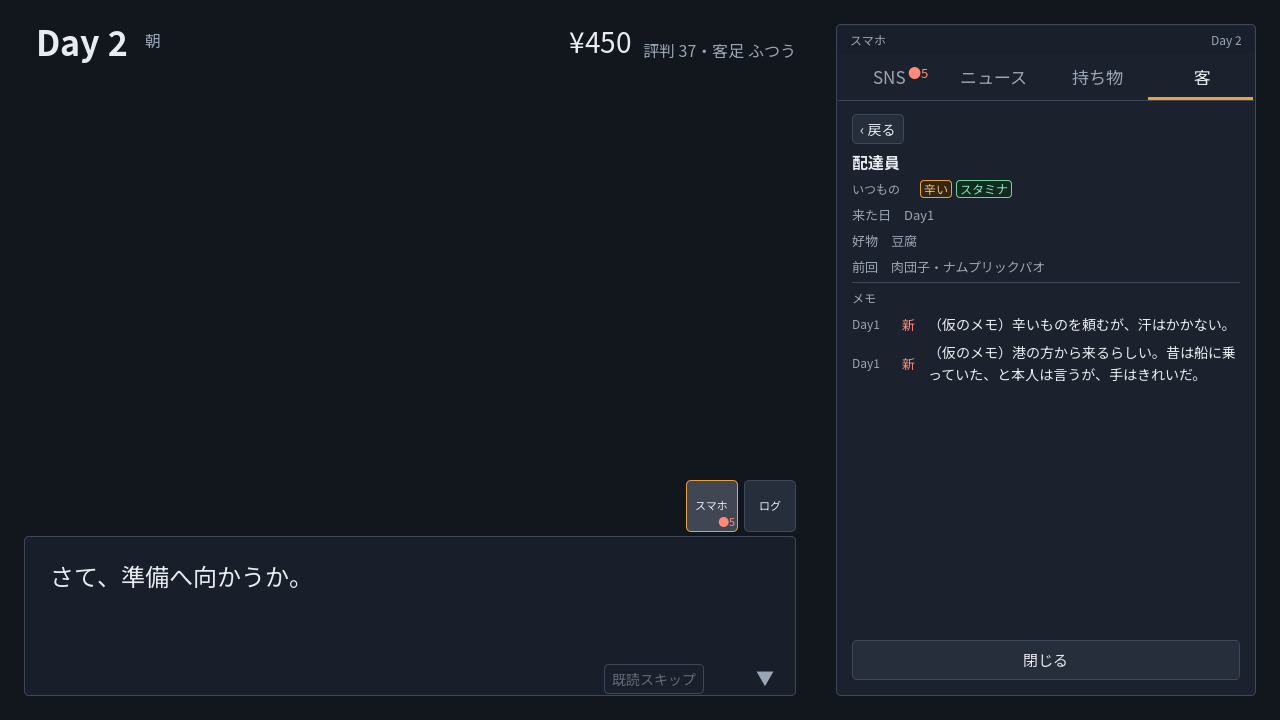
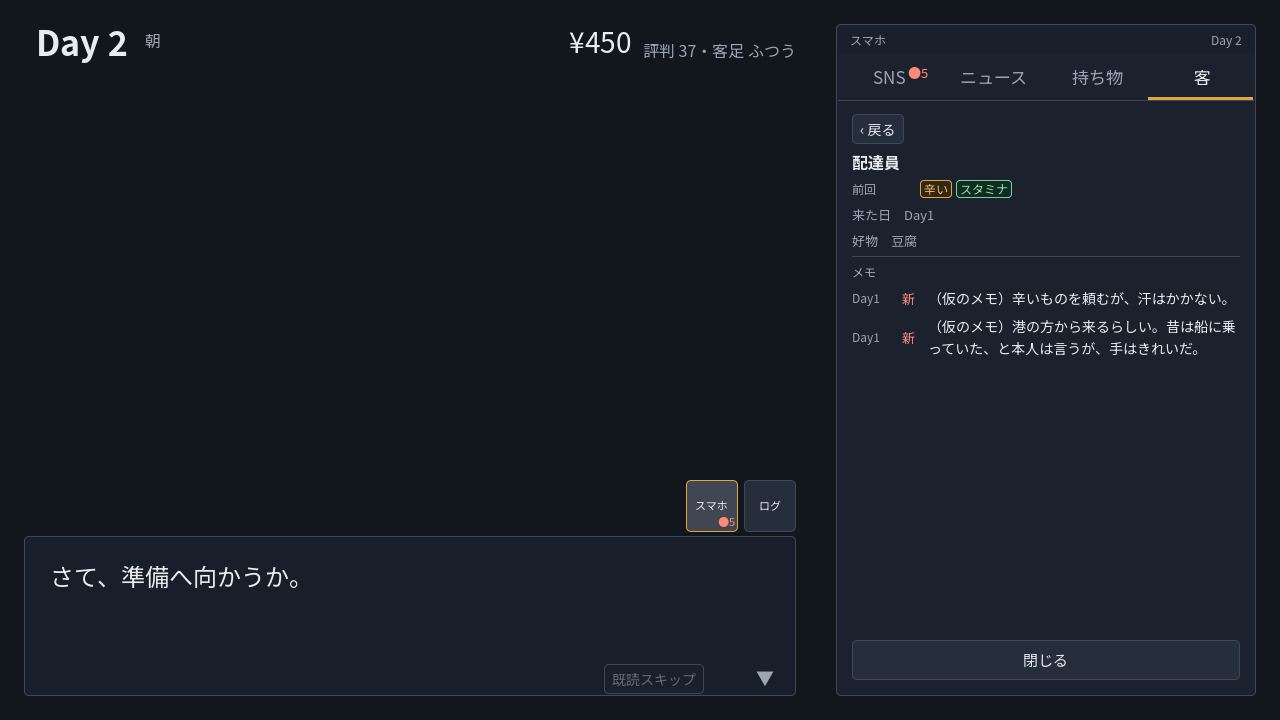
UI準備O2: 客の詳細の「いつもの」を「前回」の注文に
客タブの詳細で、「いつもの」（基本の注文の札）を「前回」（前回の来店で頼んだ注文の札。その来店の場面に
今日の頼みがあればその札、無ければ基本の注文）に替えた。「前回　材料名」の行は出さない。
phone_notes に last_order を足した（tags・usual_ingredients は残す）。

Changed region(s): [[0.6562, 0.3667, 0.9688, 0.55], [0.6562, 0.2444, 0.6875, 0.275]]

diff --git a/CURRENT_SPEC.md b/CURRENT_SPEC.md
@@ -2891,7 +2891,7 @@ Day1の配達員の「同じ客へ3杯を1杯ずつ出す」専用のEvent列を
   `Dm.preview_warnings`で注意（弾かない）。今のデータには`texts_by_day`を入れていない（文はあとで足す）。確認：`tests/dm_texts_by_day_test.gd`。
 - **客タブ＝店主のメモ帳（UI準備O2。表示とデータの形だけ。判定・評判・乱数・経済は変えない）**：
   客タブは一覧→詳細（ニュースと同じ作り）。一覧＝名前だけ（`ScheduleData.customer_display_name`。名前あり客を先、モブを後、それぞれ出会った順。行は388幅のボタン。
-  詳細でまだ見ていないメモがある客の行に「新」）。詳細（名前あり客）＝上に いつもの（基本の注文の札）・来た日・好物（知った客だけ）・前回の材料、
+  詳細でまだ見ていないメモがある客の行に「新」）。詳細（名前あり客）＝上に 前回（前回の来店で頼んだ注文の札。その来店の場面に今日の頼みがあればその札、無ければ基本の注文。`phone_notes`の`last_order`）・来た日・好物（知った客だけ）、
   下にメモ（日付付き・足した順＝古い順。長い文は折り返し、詳細は縦に送れる。詳細を開いた時点でまだ見ていなかった行に「新」）。モブの詳細は好みの札だけ（モブのメモは無い）。
   詳細を開いているかは表示だけの状態（`UiPanePhone.notes_open`。名前あり客は id、モブは`mob:<種類>`）。
   メモのデータ：場面ファイル（`data/episodes/<客>/<場面>.json`）の一番上に省略可の`memo`（文字列の配列。1来店に何行でも）。
